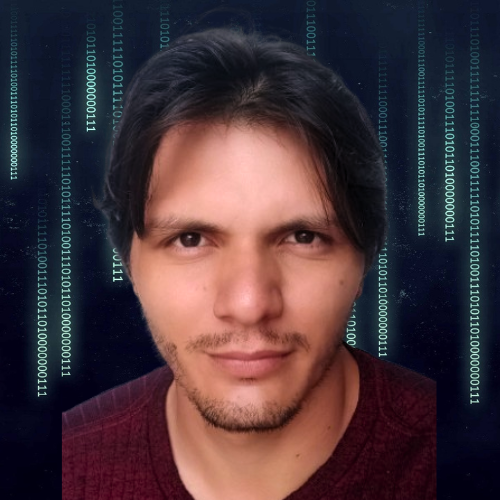
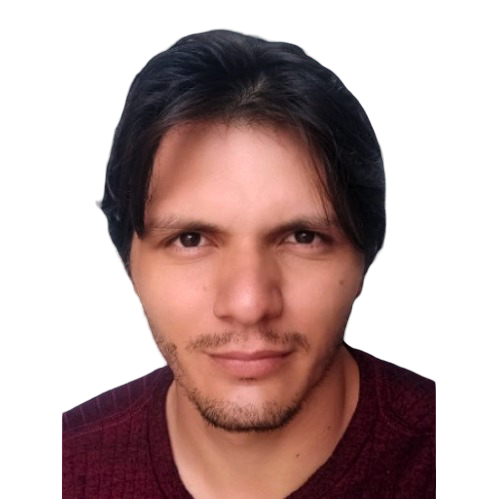
nova alteraçao

diff --git a/index.html b/index.html
@@ -1,4 +1,4 @@
-html>
+<!DOCTYPE html>
 <html lang="pt-br">
 
 <head>
@@ -30,9 +30,12 @@ html>
     </nav>
     <main id="inicio" class="cabeçalho">
         <div>
+           
             <img src="./img/lidiano.png" alt="" class="foto-perfil">
             <h1>Olá, eu sou Lidiano</h1>
             <p class="cabeçalho-sub-titulo">Desenvolvedor Front-End</p>
+         <img src="./img/icons8-html-5.svg" alt="" class="svg"> <img src="./img/icons8-css.svg" alt="" class="svg"><img src="./img/icons8-js.svg" alt="" class="svg">
+
         </div>
     </main>
     <section id="sobre" class="sobre">
@@ -57,11 +60,55 @@ html>
 
 
             </div>
+            <div class="projetos-card">
+                <img src="./img/moto-pagi.png" alt="" class="projeto-imagem">
+                <div class="caixa-textos-projeto">
+                    <h3 class="projeto-info">pagina de venda de motos</h3>
+                    <p class="paragrafo-projetos"> um projeto desenvolvido para venda de motos com tecnologia
+                        HTML:5,CSS,javscript. </p>
+                </div>
+
+
+            </div>
+            <div class="projetos-card">
+                <img src="./img/projeto login.png" alt="" class="projeto-imagem">
+                <div class="caixa-textos-projeto">
+                    <h3 class="projeto-info">pagina de login </h3>
+                    <p class="paragrafo-projetos"> um projeto de login com tecnologia
+                        HTML:5,CSS. </p>
+                </div>
+
+
+            </div>
 
             <div class="projetos-card">
                 <img src="./img/mario.png" alt="" class="projeto-imagem">
                 <div class="caixa-textos-projeto">
                     <h3 class="projeto-info">projeto treinamento</h3>
+                    <p class="paragrafo-projetos"> um projeto de treinamento com tecnologia HTML:5,CSS. </p>
+                </div>
+            </div>
+
+            <div class="projetos-card">
+                <img src="./img/Captura de Tela (5).png" alt="" class="projeto-imagem">
+                <div class="caixa-textos-projeto">
+                    <h3 class="projeto-info">projeto relogio </h3>
+                    <p class="paragrafo-projetos"> um projeto de treinamento com tecnologia HTML:5,CSS3. </p>
+                </div>
+            </div>
+
+            <div class="projetos-card">
+                <img src="./img/Captura de Tela (6).png" alt="" class="projeto-imagem">
+                <div class="caixa-textos-projeto">
+                    <h3 class="projeto-info">projeto slider</h3>
+                    <p class="paragrafo-projetos"> um projeto de treinamento com tecnologia HTML:5,CSS.javascript </p>
+                </div>
+            </div>
+
+            <div class="projetos-card">
+                <img src="./img/Captura de tela 2025-04-01 153621.png" alt="" class="projeto-imagem">
+                <div class="caixa-textos-projeto">
+                    <h3 class="projeto-info">projeto cafeteria</h3>
                     <p class="paragrafo-projetos"> um projeto de treinamento com tecnologia HTML:5,CSS. </p>
                 </div>
             </div>

diff --git a/style.css b/style.css
@@ -84,8 +84,20 @@ body {
     box-shadow: 0 0 20px var(--primaria);
     border-radius: 50%;
     border: 4px solid var(--vidro);
+    filter: drop-shadow(4px 4px 4px rgba(47, 173, 75, 0.5));
     animation: flutuar 3s ease-in-out infinite;
 
+
+}
+.svg{
+    width: 100px;
+    height: 100px;
+    margin: 20px auto;
+    animation: flutuar 3s ease-in-out infinite;
+    cursor: pointer;
+}
+.svg:hover{
+    filter: drop-shadow(4px 4px 4px rgba(47, 173, 75, 0.5));
 }
 
 h1 {
@@ -155,6 +167,8 @@ h1 {
     overflow: hidden;
     transition: all 0.5s ease;
     cursor: pointer;
+   
+
 
 
 }
@@ -288,6 +302,92 @@ h1 {
     }
     50% {
         transform: translateY(-20px);
+    }
+}
+@media (max-width: 768px) {
+    .menu {
+        flex-direction: column;
+        gap: 1rem;
+    }
+
+    .cabeçalho h1 {
+        font-size: 2.5rem;
+    }
+
+    .cabeçalho-sub-titulo {
+        font-size: 1.5rem;
+    }
+
+    .foto-perfil {
+        width: 200px;
+        height: 220px;
+    }
+
+    .sobre-titulo {
+        font-size: 2.5rem;
+    }
+
+    .sobre-paragrafo {
+        font-size: 1rem;
+    }
+
+    .projetos-titulos {
+        font-size: 2rem;
+    }
+
+    .projeto-imagem {
+        height: 200px;
+    }
+
+    .contatos-titulo {
+        font-size: 2rem;
+    }
+
+    .botao-form {
+        font-size: 1.2rem;
+    }
+}
+
+@media (max-width: 480px) {
+    .menu {
+        gap: 0.5rem;
+    }
+
+    .cabeçalho h1 {
+        font-size: 2rem;
+    }
+
+    .cabeçalho-sub-titulo {
+        font-size: 1.2rem;
+    }
+
+    .foto-perfil {
+        width: 200px;
+        height: 200px;
+    }
+
+    .sobre-titulo {
+        font-size: 2rem;
+    }
+
+    .sobre-paragrafo {
+        font-size: 0.9rem;
+    }
+
+    .projetos-titulos {
+        font-size: 1.8rem;
+    }
+
+    .projeto-imagem {
+        height: 150px;
+    }
+
+    .contatos-titulo {
+        font-size: 1.8rem;
+    }
+
+    .botao-form {
+        font-size: 1rem;
     }
 }
 
